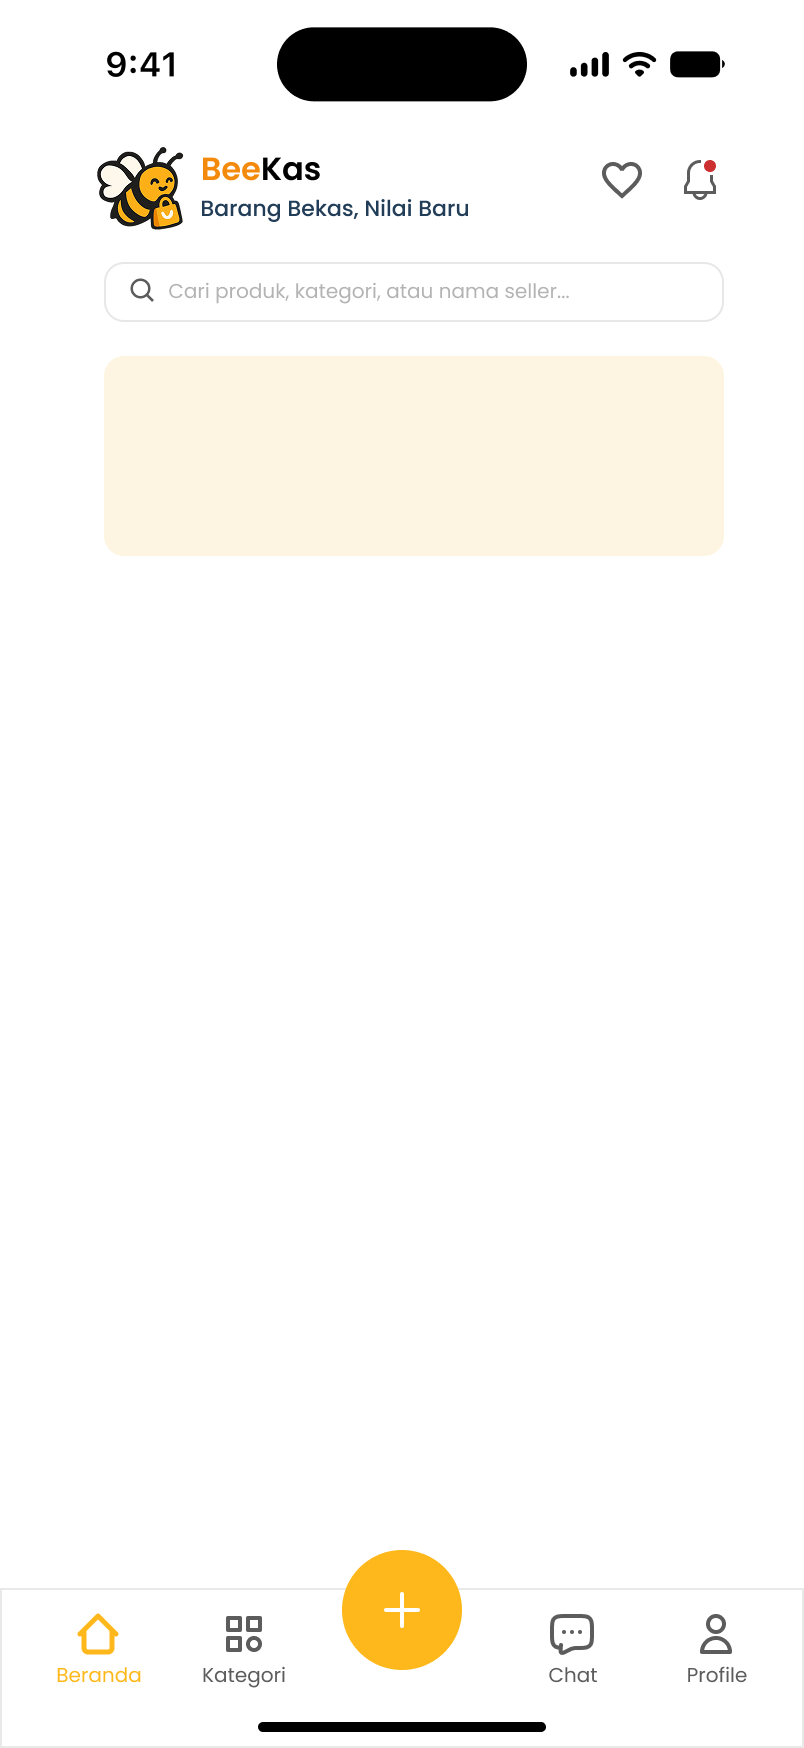
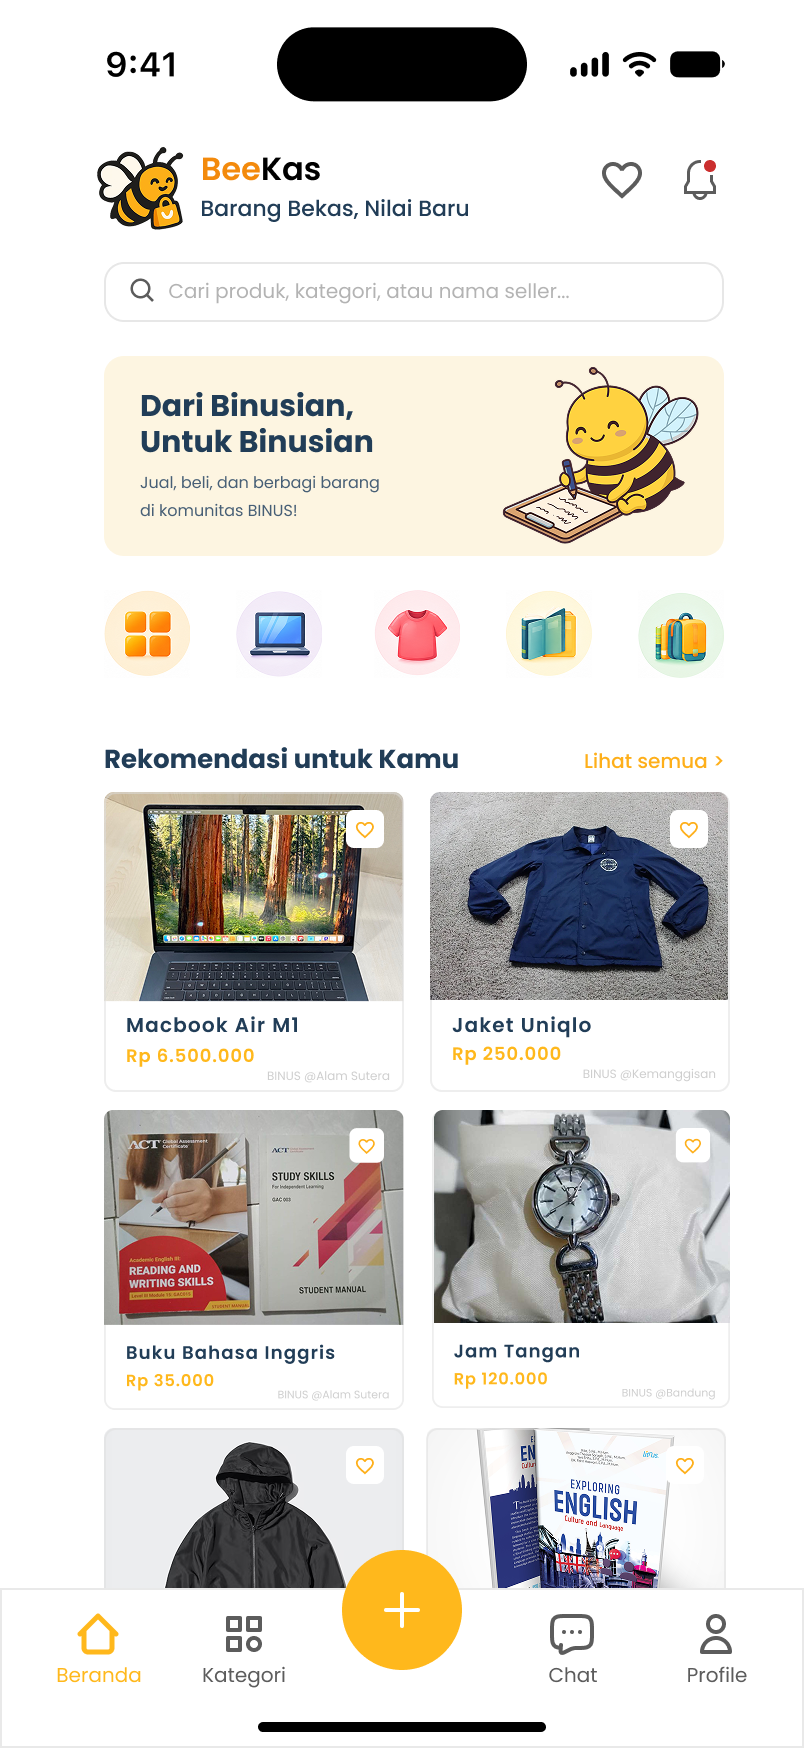
docs: desain Figma 20 Okt 2026 dan keputusan D-22 (#55)
* docs: desain Figma 20 Okt 2026 dan keputusan D-22

* docs: rujukan D-22 di D-04, D-05, PRD; nama file desain huruf kecil

diff --git a/docs/PRD.md b/docs/PRD.md
@@ -76,7 +76,7 @@ Kolom "Desain" berisi frame Figma, atau "Tanpa desain". "Tanpa desain" berarti l
 - Tombol EN | ID tampil di pojok kanan atas.
 
 ### L3 Masuk
-- Isian: "Email atau nomor HP" dan "Kata sandi" (bisa ditampilkan atau disembunyikan).
+- Isian: "Email atau nomor HP" dan "Kata sandi" (bisa ditampilkan atau disembunyikan). (Lihat D-22.)
 - "Ingat saya" tercentang secara default (D-04).
 - Tautan "Lupa kata sandi?" dan tombol Masuk. Tombol "Masuk dengan SSO" dan pemisah "atau" di frame tidak dibangun (D-05).
 - Tautan Daftar dan tautan "Lihat katalog sebagai tamu". Tautan tamu belum ada di desain.
@@ -89,21 +89,21 @@ Kolom "Desain" berisi frame Figma, atau "Tanpa desain". "Tanpa desain" berarti l
 - Isian:
   - Nama lengkap.
   - Email BINUS: `@binus.ac.id` atau `@binus.edu`, tidak peka huruf besar-kecil.
-  - Nomor HP: diterima `08…`, `628…`, atau `+628…`, lalu dinormalisasi ke `+628…` dan disimpan setelah OTP terverifikasi (L5).
+  - Nomor HP: diterima `08…`, `628…`, atau `+628…`, lalu dinormalisasi ke `+628…` dan disimpan setelah OTP terverifikasi (L5). (Lihat D-22.)
   - Tipe akun, diturunkan dari domain email (D-15): `@binus.ac.id` otomatis Mahasiswa tanpa pilihan; `@binus.edu` menampilkan pilihan wajib Dosen / Staf setelah email valid diketik.
   - Kampus asal: dropdown D-12.
 - Banner "Pastikan data sudah benar dan sesuai identitas BINUS."
 - Validasi saat menekan Lanjut:
   - Semua isian wajib.
   - Email harus berdomain BINUS.
-  - Nomor HP harus valid. Nomor yang sudah dipakai ditolak setelah OTP terverifikasi, dengan pesan 'Nomor HP ini sudah terdaftar' dan kesempatan mengganti nomor.
+  - Nomor HP harus valid. Nomor yang sudah dipakai ditolak setelah OTP terverifikasi, dengan pesan 'Nomor HP ini sudah terdaftar' dan kesempatan mengganti nomor. (Lihat D-22.)
   - Email yang sudah terdaftar tidak diperiksa saat Lanjut, untuk mencegah enumerasi email (D-07); pesan "Email ini sudah terdaftar" dengan tautan Masuk ditampilkan setelah OTP terverifikasi.
 
 ### L5 Verifikasi email
 - Kode 6 digit dikirim ke email BINUS.
 - Tombol kirim ulang aktif setelah 60 detik.
 - Kode berlaku sesuai bawaan Supabase. Kode salah atau kedaluwarsa menampilkan pesan dan pilihan kirim ulang.
-- Setelah kode benar, nomor HP dari L4 disimpan. Bila nomor sudah dipakai, pengguna diminta memasukkan nomor lain sebelum lanjut.
+- Setelah kode benar, nomor HP dari L4 disimpan. Bila nomor sudah dipakai, pengguna diminta memasukkan nomor lain sebelum lanjut. (Lihat D-22.)
 - Akun dibuat setelah kode benar, dengan status `incomplete` setelah L6.
 
 ### L6 Buat kata sandi
@@ -164,7 +164,7 @@ Kolom "Desain" berisi frame Figma, atau "Tanpa desain". "Tanpa desain" berarti l
   - foto kartu dan selfie berdampingan.
 - Tombol Setujui, atau Tolak dengan alasan wajib.
 - Setelah keputusan, email dikirim ke pendaftar dan statusnya berubah.
-- Admin bisa melepas nomor HP dari sebuah akun, bila pemilik asli nomor itu menghubungi Bantuan karena tidak bisa mendaftar (D-04). Akun yang nomornya dilepas tidak bisa masuk dengan nomor HP sampai mengisi nomor baru.
+- Admin bisa melepas nomor HP dari sebuah akun, bila pemilik asli nomor itu menghubungi Bantuan karena tidak bisa mendaftar (D-04). Akun yang nomornya dilepas tidak bisa masuk dengan nomor HP sampai mengisi nomor baru. (Lihat D-22.)
 
 ### L16 Layar teks statis
 - Kebijakan Privasi dan Syarat & Ketentuan, dalam dua bahasa.
@@ -179,7 +179,7 @@ Kolom "Desain" berisi frame Figma, atau "Tanpa desain". "Tanpa desain" berarti l
 
 1. **Email BINUS:** domain `binus.ac.id` atau `binus.edu`, tidak peka huruf besar-kecil, spasi di awal dan akhir dibuang.
 2. **Nomor HP:** normalisasi ke `+628` diikuti 8–11 digit (10–13 digit termasuk 08 di depan).
-3. **Sign-in identifier:** bila mengandung `@`, diperlakukan sebagai email; selain itu nomor HP.
+3. **Sign-in identifier:** bila mengandung `@`, diperlakukan sebagai email; selain itu nomor HP. (Lihat D-22.)
 4. **Kata sandi:** minimal 8 karakter, ada huruf dan angka, sama dengan konfirmasinya.
 5. **Tipe akun dari domain** (D-15): `binus.ac.id` → mahasiswa; `binus.edu` → dosen atau staf, wajib dipilih. Tipe akun menentukan jenis kartu.
 6. **Daftar kampus:** kode dan label (D-12).
@@ -224,9 +224,9 @@ Aturan 1, 2, 4, 7, 8, dan 9 ditegakkan juga di backend (constraint, RLS, atau fu
 
 ## 10. Dicatat untuk sesi berikutnya (di luar lingkup login)
 
-- Tab "Chat" di Home bertentangan dengan keputusan lama bahwa komunikasi lewat WhatsApp (D-04 versi web).
+- Tab "Chat" di Home bertentangan dengan keputusan lama bahwa komunikasi lewat WhatsApp (D-04 versi web). (Lihat D-22.)
 - Ikon favorit dan notifikasi di header Home.
 - Kartu digital member: ide terbuka, belum punya fungsi (D-14).
-- Sesi katalog: nomor WhatsApp penjual hanya terlihat oleh member `approved` (D-06). Pertimbangkan pengingat bagi penjual bahwa nomornya akan terlihat oleh pembeli.
+- Sesi katalog: nomor WhatsApp penjual hanya terlihat oleh member `approved` (D-06). Pertimbangkan pengingat bagi penjual bahwa nomornya akan terlihat oleh pembeli. (Lihat D-22.)
 - Sesi profil, angkatan (BINUSIAN): daftar label sebaiknya diturunkan dari tahun berjalan, tidak ditulis tetap. Nilainya ditampilkan sebagai "diisi sendiri".
-- Catatan implementasi, masuk dengan nomor HP: butuh fungsi server yang mencari email dari nomor HP. Fungsi itu tidak boleh membocorkan apakah sebuah nomor terdaftar; nomor tidak dikenal dan sandi salah menghasilkan respons yang sama.
+- Catatan implementasi, masuk dengan nomor HP: butuh fungsi server yang mencari email dari nomor HP. Fungsi itu tidak boleh membocorkan apakah sebuah nomor terdaftar; nomor tidak dikenal dan sandi salah menghasilkan respons yang sama. (Lihat D-22.)

diff --git a/docs/decisions.md b/docs/decisions.md
@@ -49,6 +49,8 @@ Akun baru terbentuk setelah OTP benar. Aturan kata sandi: minimal 8 karakter, se
 
 ## D-04 — Masuk dengan email atau nomor HP + kata sandi
 
+**Digantikan sebagian oleh D-22 (20 Okt 2026).**
+
 **Status:** Disetujui CTO, 5 Oktober 2026
 
 **Keputusan:**
@@ -66,6 +68,8 @@ Akun baru terbentuk setelah OTP benar. Aturan kata sandi: minimal 8 karakter, se
 ---
 
 ## D-05 — Tidak ada login SSO Microsoft BINUS
+
+**Digantikan sebagian oleh D-22 (20 Okt 2026).**
 
 **Status:** Disetujui CTO, 5 Oktober 2026
 
@@ -274,3 +278,24 @@ Email, tipe akun, dan peran tidak bisa diubah member. `approved` dan `rejected` 
 **Alasan:** UU PDP meminta pihak yang bisa dihubungi pengguna soal data pribadinya. Akun admin per orang membuat catatan "disetujui/ditolak oleh siapa" akurat.
 
 **Konsekuensi:** Perlu lima akun admin: lokal lewat seed (D-18, saat ini satu), cloud dibuat terpisah.
+
+---
+
+## D-22 — Desain Figma 20 Oktober 2026 jadi acuan, dengan koreksi
+
+**Status:** Dikonfirmasi Faiqi, 20 Oktober 2026
+
+**Keputusan:**
+1. **Acuan desain:** ekspor Figma 20 Oktober 2026 di `docs/design/` (lihat `docs/design/tokens.md`) menjadi acuan layar, kecuali koreksi di poin 3 dan 5.
+2. **Chat di aplikasi:** pembeli dan penjual berkomunikasi lewat chat di aplikasi, menggantikan WhatsApp. Teks Onboarding-4 yang menyebut WhatsApp perlu diubah.
+3. **Fitur yang disepakati:** Beli Sekarang dan Booking 24 Jam, profil dengan follow, ulasan/rating, harga coret, dan notifikasi. Transaksi tetap COD di kampus; lokasi dan waktu COD disepakati lewat chat aplikasi. Tidak ada pengiriman. **Koreksi desain (perlu diubah desainer):** "Alamat Pengiriman" di Checkout (Daftar-7) diganti "Lokasi COD", dan status "Dikirim/Dalam perjalanan" di Pesanan Saya (Daftar-8) diganti status COD.
+4. **Nomor HP opsional** saat daftar.
+5. **Pengecualian dari desain di layar Masuk:**
+   - Masuk hanya dengan email + kata sandi; nomor HP tidak diverifikasi sehingga tidak dipakai untuk masuk.
+   - Tombol SSO disembunyikan sampai ada akses dari BINUS.
+   - Centang persetujuan eksplisit (D-20) tetap wajib. Teks persetujuan di layar Masuk hanya pengingat.
+6. **Warna** mengikuti token di kode (`onPrimary` gelap, tautan `#BB4902`), bukan teks putih di atas kuning seperti di Figma, karena kontrasnya kurang.
+
+**Mengubah:** D-04 (masuk dengan nomor HP, nomor HP wajib), D-05 (SSO: dari "tidak dibangun" menjadi "disembunyikan sampai ada akses BINUS"), dan keputusan lama bahwa komunikasi lewat WhatsApp (PRD, D-04 versi web).
+
+**Alasan:** Desain terbaru memuat alur jual-beli lengkap. Koreksi menjaga keputusan yang sudah ada: COD di kampus, nomor HP yang tidak diverifikasi, persetujuan data yang tercatat, dan kontras teks ≥ 4.5:1.

diff --git a/docs/design/tokens.md b/docs/design/tokens.md
@@ -88,3 +88,21 @@ Ukuran diukur dari tinggi huruf kapital dan bisa meleset ±1. Ukuran 12 untuk is
 | `verifikasi-wajah.png` | Verifikasi wajah 416:507 |
 | `verifikasi-diproses.png` | Verifikasi sedang diproses 459:184 |
 | `home.png` | Home 462:207 (di luar lingkup login, hanya rujukan) |
+
+## Ekspor 20 Oktober 2026 (acuan terbaru, D-22)
+
+PNG dari ekspor Figma 20 Oktober 2026. Karena sistem file tidak membedakan huruf besar-kecil, `home.png`, `masuk.png`, dan `onboarding-1.png` … `onboarding-4.png` di atas sudah diganti versi 20 Oktober. Warna tetap mengikuti token di atas (D-22 poin 6).
+
+| File | Layar |
+|---|---|
+| `onboarding.png`, `onboarding-1.png` … `onboarding-4.png` | Onboarding (logo + komunitas), carousel |
+| `masuk.png` | Masuk (pengecualian D-22 poin 5) |
+| `daftar.png` | Isi Data Diri |
+| `daftar-1.png` / `daftar-2.png` | Upload KTM / Konfirmasi KTM |
+| `daftar-3.png` / `daftar-4.png` | Verifikasi Wajah / Verifikasi Sedang Diproses |
+| `daftar-5.png` / `daftar-6.png` | Status Booking / Profil |
+| `daftar-7.png` / `daftar-8.png` | Checkout / Pesanan Saya (koreksi COD, D-22 poin 3) |
+| `daftar-9.png` / `daftar-10.png` | Chat / Notifikasi |
+| `daftar-11.png` / `daftar-12.png` | Tambah Barang / Kategori |
+| `daftar-13.png` / `daftar-14.png` | Booking Barang / Detail Barang |
+| `home.png` | Beranda |
